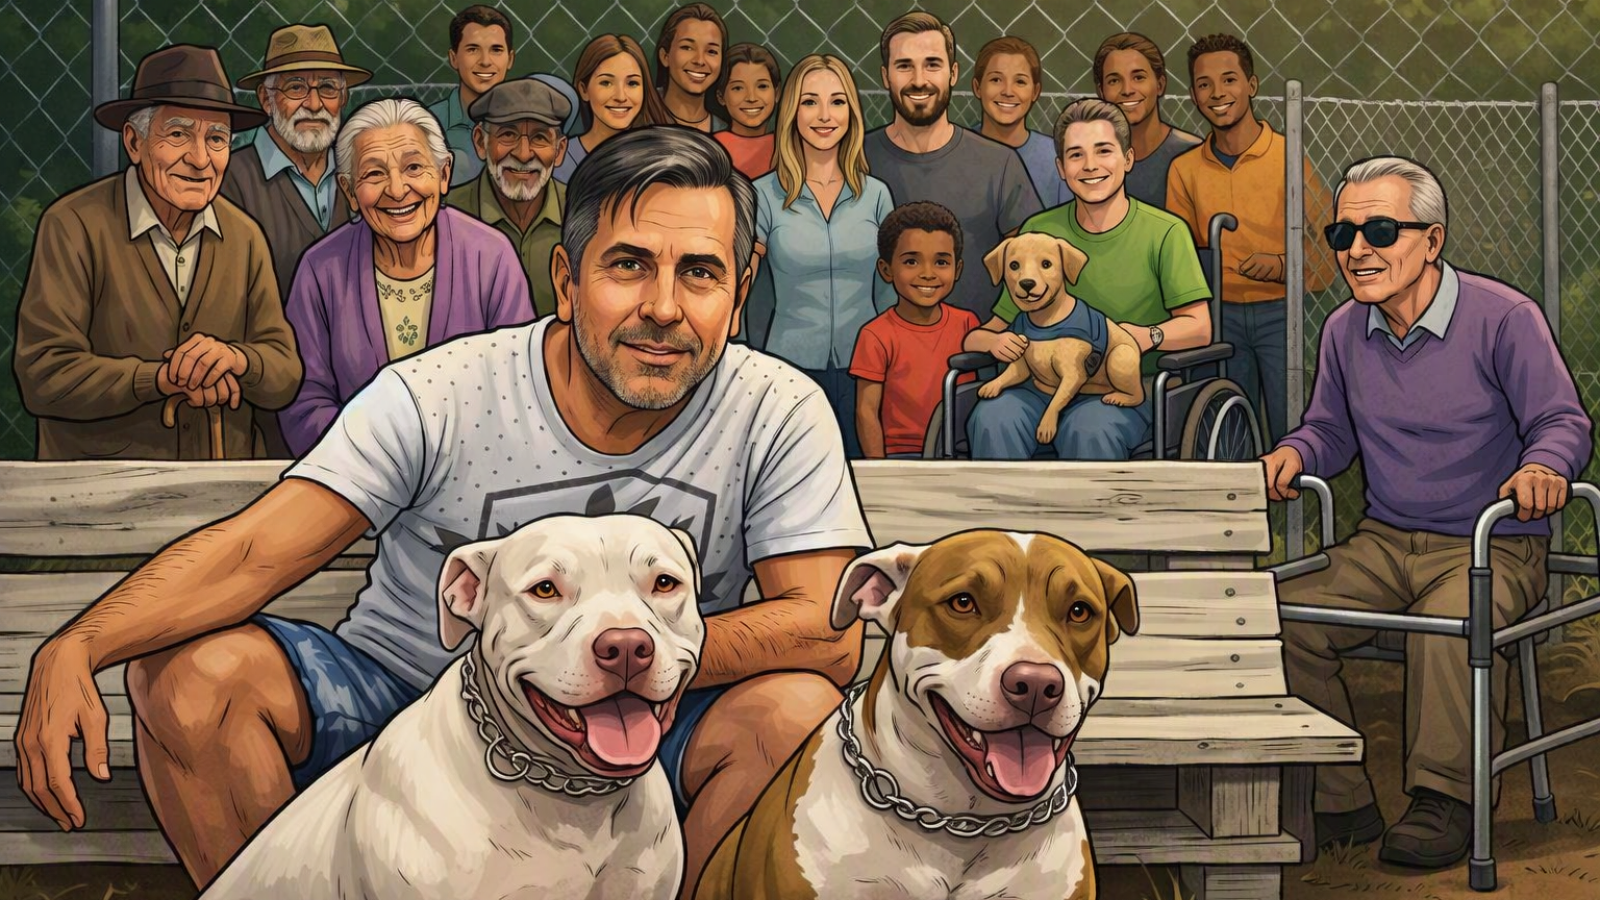
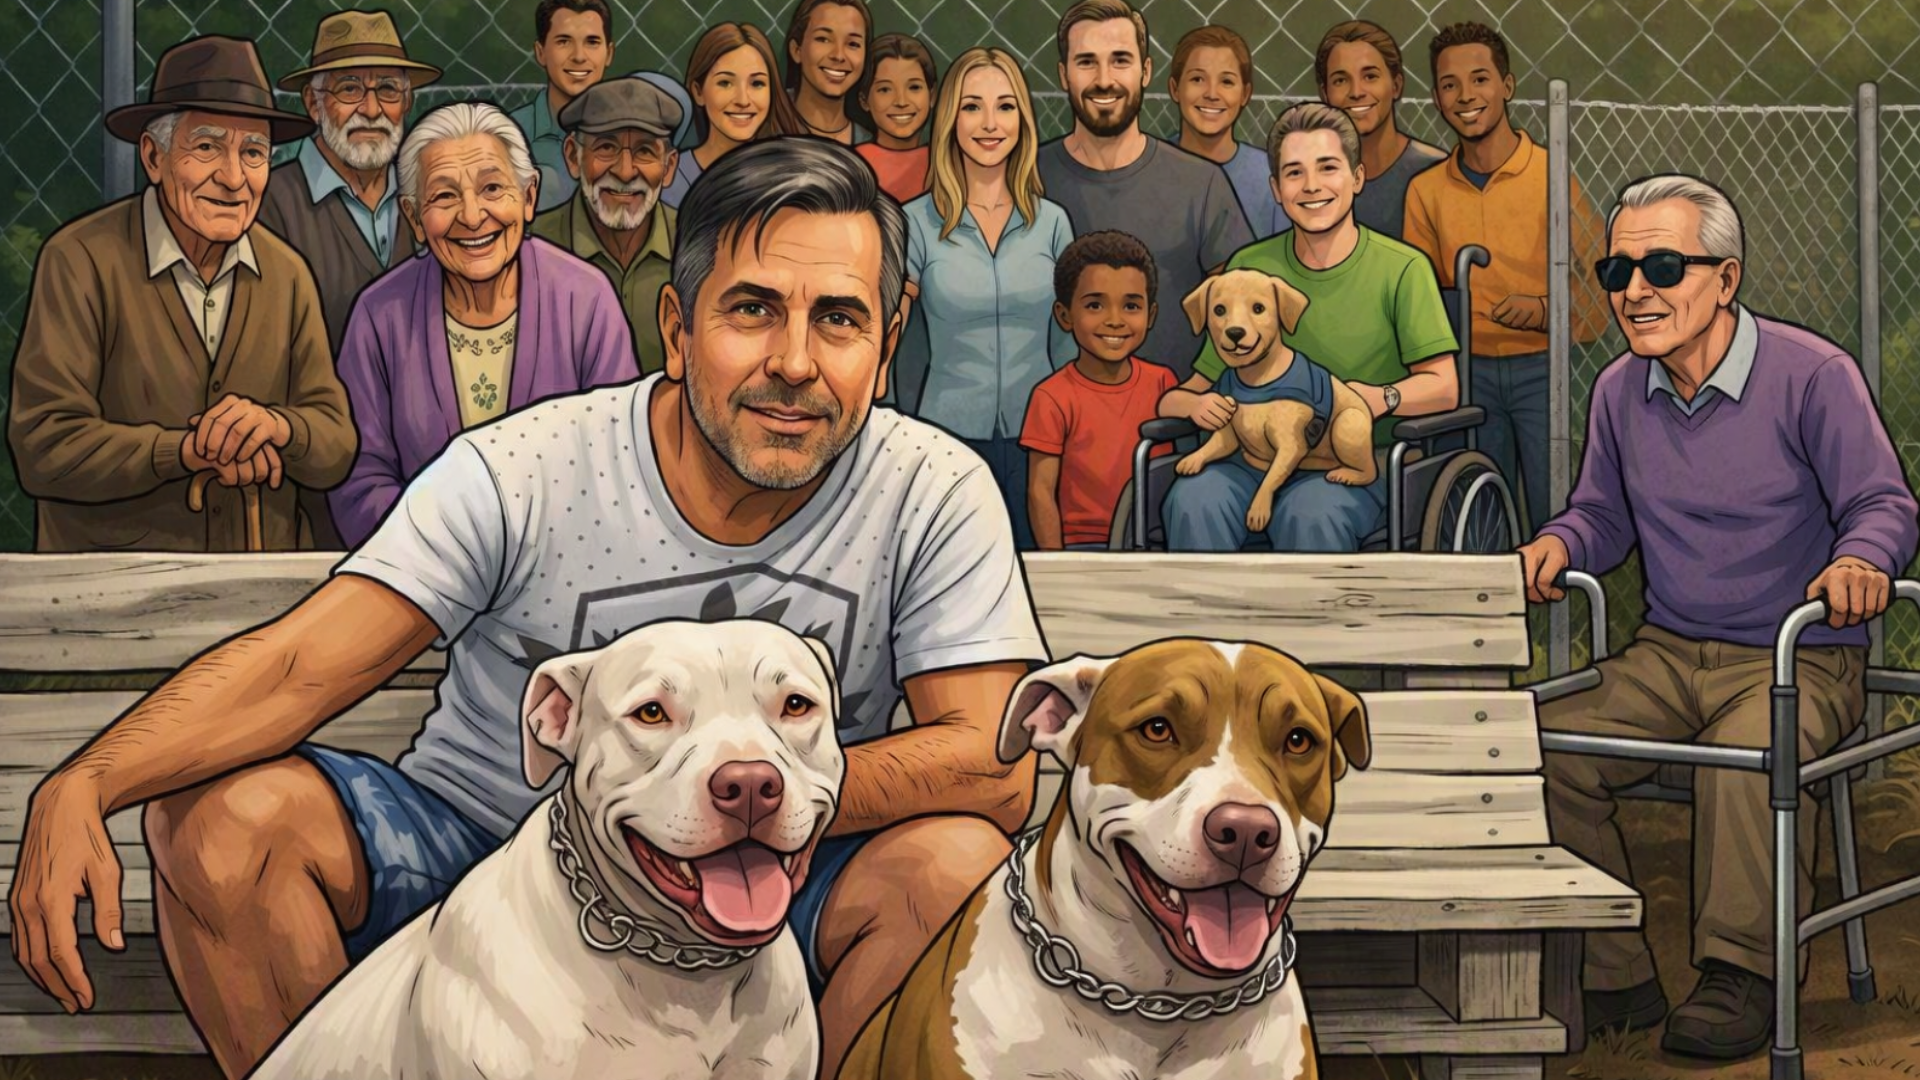
Agrego misión.html

diff --git a/index.html b/index.html
@@ -112,7 +112,7 @@
             left: 0;
             width: 100%;
             height: 100%;
-            background-image: url("imagen/portada.png");
+            background-image: url("imagen/fondo.png");
             background-size: contain; /* Garantiza que la imagen se vea 100% completa */
             background-position: center;
             background-repeat: no-repeat;
@@ -191,10 +191,17 @@
 
         /* SECCIONES DE CONTENIDO */
         .container {
-            max-width: 1100px;
-            margin: 0 auto;
-            padding: 4rem 1.5rem;
-        }
+           
+    background: #ffffff;
+    padding: 25px;
+    border-radius: 16px;
+    margin: 20px auto;
+    max-width: 900px;
+    border: 1px solid #ffd7b8;
+    box-shadow: 0 8px 20px rgba(0,0,0,0.08);
+}
+
+        
 
         .section-header {
             text-align: center;
@@ -279,13 +286,37 @@
     flex: 1 1 300px; /* Tamaño base y capacidad de encogimiento/crecimiento */
   }
 .bloque-imagen {
-    width: 300px;      /* o el tamaño que quieras */
+    width: 400px;      /* o el tamaño que quieras */
     height: auto;
     display: block;
 }
 .contenedor-bloque img {
     flex-shrink: 0;
 }
+.areas-list  {
+    list-style: none;        /* Quita las viñetas */
+    padding-left: 0;         /* Evita sangrías innecesarias */
+    margin: 0;               /* Limpia el espacio exterior */
+    text-align: left; 
+}
+.areas-list li {
+    padding: 6px 0;          /* Espaciado entre ítems */
+    display: flex;           /* Permite alinear iconos y texto */
+    align-items: center;     /* Centra verticalmente */
+    gap: 8px;                /* Espacio entre icono y texto */
+    border-bottom: 1px solid #eee; /* Línea suave para orden visual */
+}
+.contenedor {
+   
+    background: #ffffff;
+    padding: 25px;
+    border-radius: 16px;
+    margin: 20px auto;
+    max-width: 900px;
+    border: 1px solid #ffd7b8;
+    box-shadow: 0 8px 20px rgba(0,0,0,0.08);
+}
+
 
     </style>                      
 </head>
@@ -321,8 +352,67 @@
 
     <section id="mision" class="container">
         <div class="section-header">
-            <h2>Nuestra Misión</h2>
-            <p>Un espacio donde la empatía, la protección animal y la inclusión social se unen.</p>
+            <h2>Nuestra Misiòn :</h2>
+            <p>Un espacio donde la empatía, la protección animal y la inclusión social se unen. </p>        
+ 
+<p>Fomentar, proteger y apoyar integralmente a todos los seres vivos y al medio ambiente, sin discriminación
+de ninguna índole.</p>
+<h2>Lo que hacemos: </h2>
+ <ol class="areas-list">
+        <li>
+            🐾 <strong>Protección Animal</strong> — Rescate, recuperación, atención veterinaria,
+            alimentación, refugio, esterilización y adopción responsable de cualquier especie.
+        </li>
+
+        <li>
+            🌿 <strong>Alimentos Naturales</strong> — Promoción de crianza y elaboración de alimentos
+            100% naturales.
+        </li>
+
+        <li>
+            🤝 <strong>Apoyo Integral a Personas</strong> — Atención y asistencia humanitaria sin
+            distinción de raza, etnia, credo, condición o edad.
+        </li>
+
+        <li>
+            🌍 <strong>Inclusión Social</strong> — Apoyo a poblaciones vulnerables, personas en
+            situación de desplazamiento, adultos mayores, niñez, personas con discapacidad,
+            comunidades indígenas y afrodescendientes.
+        </li>
+
+        <li>
+            📚 <strong>Educación y Cultura</strong> — Fomento de educación, cultura, deporte y
+            formación para el trabajo.
+        </li>
+
+        <li>
+            🌱 <strong>Agricultura Orgánica y Sostenible</strong> — Producción limpia, libre de
+            químicos y transgénicos.
+        </li>
+
+        <li>
+            🌾 <strong>Cría Ecológica</strong> — Semillas, cultivos, cría ecológica y aprovechamiento
+            integral de recursos y subproductos.
+        </li>
+
+        <li>
+            🌿 <strong>Cannabis con Responsabilidad Legal</strong> — Cultivo, transformación y
+            aprovechamiento conforme a la Ley 1787 de 2016, para fines medicinales, científicos,
+            industriales y agroecológicos.
+        </li>
+
+        <li>
+            🤝 <strong>Convenios y Alianzas</strong> — Trabajo conjunto con entidades públicas y
+            privadas, nacionales e internacionales, fundaciones y organizaciones afines.
+        </li>
+
+        <li>
+            🔗 <strong>Participación en Proyectos</strong> — Acciones que fortalecen el cumplimiento
+            de nuestra misión.
+        </li>
+    </ol>
+</section>
+  </p>         
         </div>
 
         <div class="cards-grid">
@@ -340,6 +430,7 @@
             </div>
         </div>
     </section>
+
     <section id="mision" class="container">
 <div class="contenedor-bloque">
                 <img src="imagen/gato1.jpg" alt="Gato en un entorno de refugio animal, con una expresión tranquila y atenta; no se aprecia texto en la imagen." class="bloque-imagen">
@@ -362,10 +453,47 @@
             </ul>
         </div>
     </section>
+    <div class="contenedor">
+    <h3>Objetivos Generales de la Fundación</h3>
+
+    <p>
+        La Fundación Mi Manada y Yo — Protección y Vida tiene como propósito integral la 
+        protección, rescate, bienestar y defensa de toda especie animal sin excepción; la 
+        promoción de la agricultura orgánica y sostenible; el estudio y aplicación del cannabis 
+        con fines medicinales y terapéuticos; y el apoyo a la persona humana sin ninguna 
+        discriminación, promoviendo la inclusión, la dignidad y el bienestar comunitario.
+    </p>
+
+    <h3>Fines Específicos</h3>
+
+    <p><strong>Protección Animal:</strong> Rescate, albergue, atención veterinaria, alimentación natural, 
+    defensa legal y educación en tenencia responsable; apoyo a otras fundaciones y refugios afines.</p>
+
+    <p><strong>Desarrollo Humano Inclusivo:</strong> Atención a poblaciones vulnerables como niñez, 
+    adulto mayor, comunidades étnicas, indígenas, afrodescendientes, desplazados y personas 
+    con discapacidad, sin distinción de raza, credo, género o condición social.</p>
+
+    <p><strong>Medio Ambiente y Agricultura Limpia:</strong> Prácticas agroecológicas, conservación de 
+    semillas nativas y protección de biodiversidad y recursos naturales.</p>
+
+    <p><strong>Uso Legal del Cannabis:</strong> Investigación, cultivo autorizado y aplicación de CBD y THC 
+    conforme a la Ley 1787 de 2016, con fines medicinales, terapéuticos, veterinarios e 
+    industriales.</p>
+
+    <p><strong>Alianzas y Transparencia:</strong> Convenios con entidades públicas y privadas, universidades 
+    y organizaciones nacionales e internacionales. Todo ingreso se reinvierte totalmente; está 
+    prohibida la distribución de utilidades a fundadores o directivos.</p>
+
+    <p>
+        Puedes consultar el documento oficial aquí:  
+        <a href="documentos/objetivos generales.pdf" target="_blank">📄 Descargar Objetivos Generales (PDF)</a>
+    </p>
+</div>
 
     <footer>
-        <p>&copy; 2026 <strong>Mi Manada y Yo</strong> </p>
-<a href="mailto:mimanadayyo@org">info@mimanadayyo.org</a>
+        <p>  <strong>Mi Manada y Yo - Protección y Vida</strong> </p>
+        <p>&copy;2026 - Todos los derechos reservados.</p>
+    </footer>        
            
                 
 </body>

diff --git a/slide.html b/slide.html
@@ -157,12 +157,17 @@
   margin-bottom: 1rem;
 }
 .contact-info { 
-    text-align: center; 
+    
     font-size: 1.1rem; 
     color: #333d33; 
-    list-style: none;
-    padding: 0;
-    margin: 0;    
+     background: #ffffff;
+  padding: 2rem;
+  border-radius: 16px;
+  border: 1px solid #ffd7b8;
+  max-width: 700px;
+  margin: 2rem auto; /* ESTO LO CENTRA */
+  text-align: center;
+  box-shadow: 0 8px 20px rgba(0,0,0,0.08);    
 }
 .contact-info ul {
   list-style: none; /* ESTO QUITA LAS VIÑETAS */
@@ -221,7 +226,7 @@
     </header>
     <div class="portada-slider">
     <div class="slide"><img src="imagen/perro5.jpg" alt=""></div>
-    <div class="slide"><img src="imagen/manada2.png" alt=""></div>
+    <div class="slide"><img src="imagen/ayuda_social.png" alt=""></div>
     <div class="slide"><img src="imagen/manada1.png" alt=""></div>
 </div>
 
@@ -255,7 +260,8 @@
     </form>
 </div>            
     <footer>
-        <p>&copy; 2026 <strong>Mi Manada y Yo</strong> — Protección y vida. Todos los derechos reservados.</p>
+        <p> <strong> Mi Manada y Yo - Protección y Vida</strong> </p>
+        <p>&copy; 2026 - Todos los derechos reservados.</p>
     </footer>
       
 </body>

diff --git a/galeria.html b/galeria.html
@@ -322,7 +322,7 @@
             <nav>
                 <a href="index.html">Inicio</a>
                 <a href="galeria.html">Galería</a>
-                <a href="contacto.html">Contacto</a>
+                <a href="slide.html">Contacto</a>
             </nav>
         </div>
     </header>
@@ -396,7 +396,8 @@
     </div>
 
     <footer>
-        <p>&copy; 2026 <strong>Mi Manada y Yo</strong> — Protección y vida. Todos los derechos reservados.</p>
+        <p>  <strong> Mi Manada y Yo - Protección y Vida</strong> </p>
+        <p>&copy;2026 - Todos los derechos reservados.</p>
     </footer>
 
     <script>
